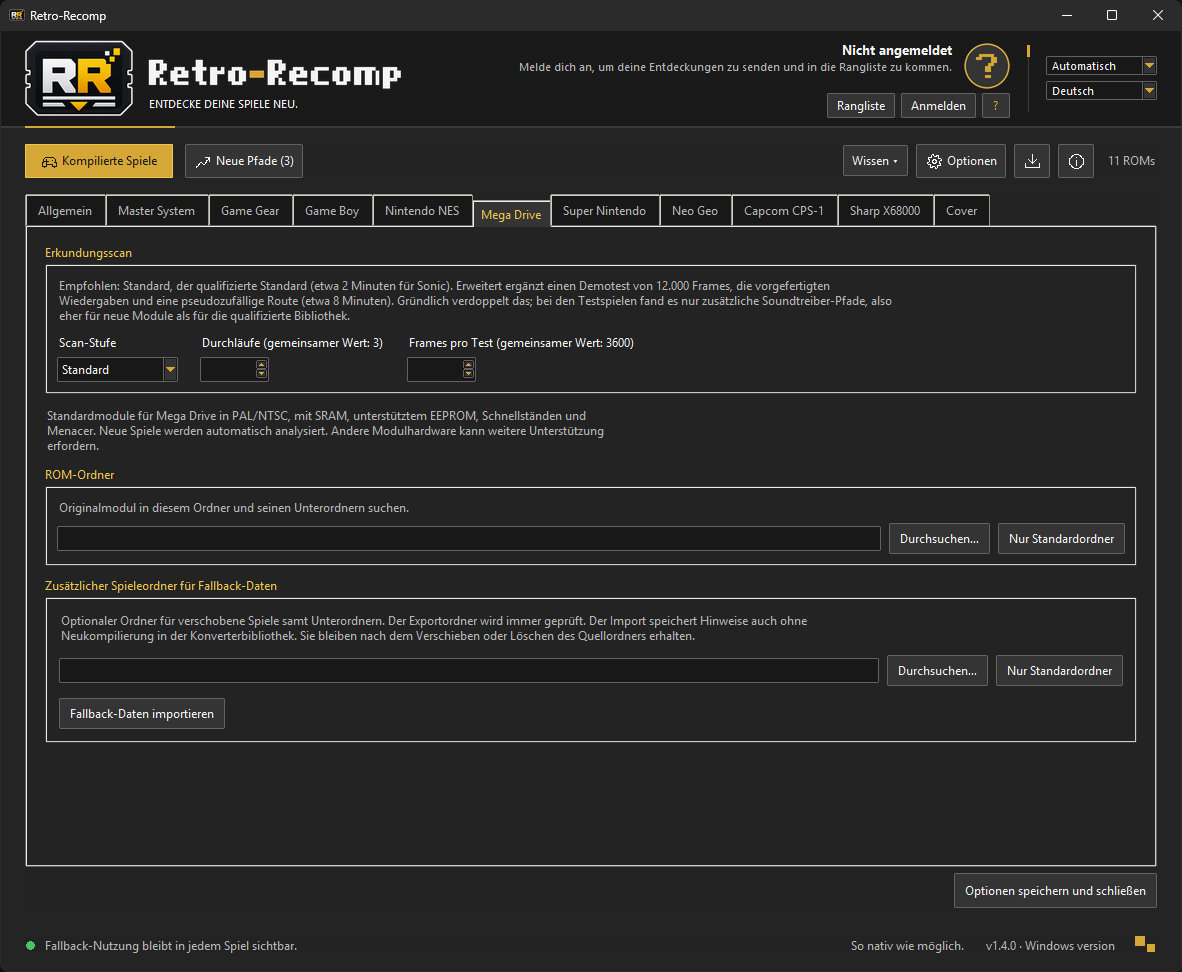
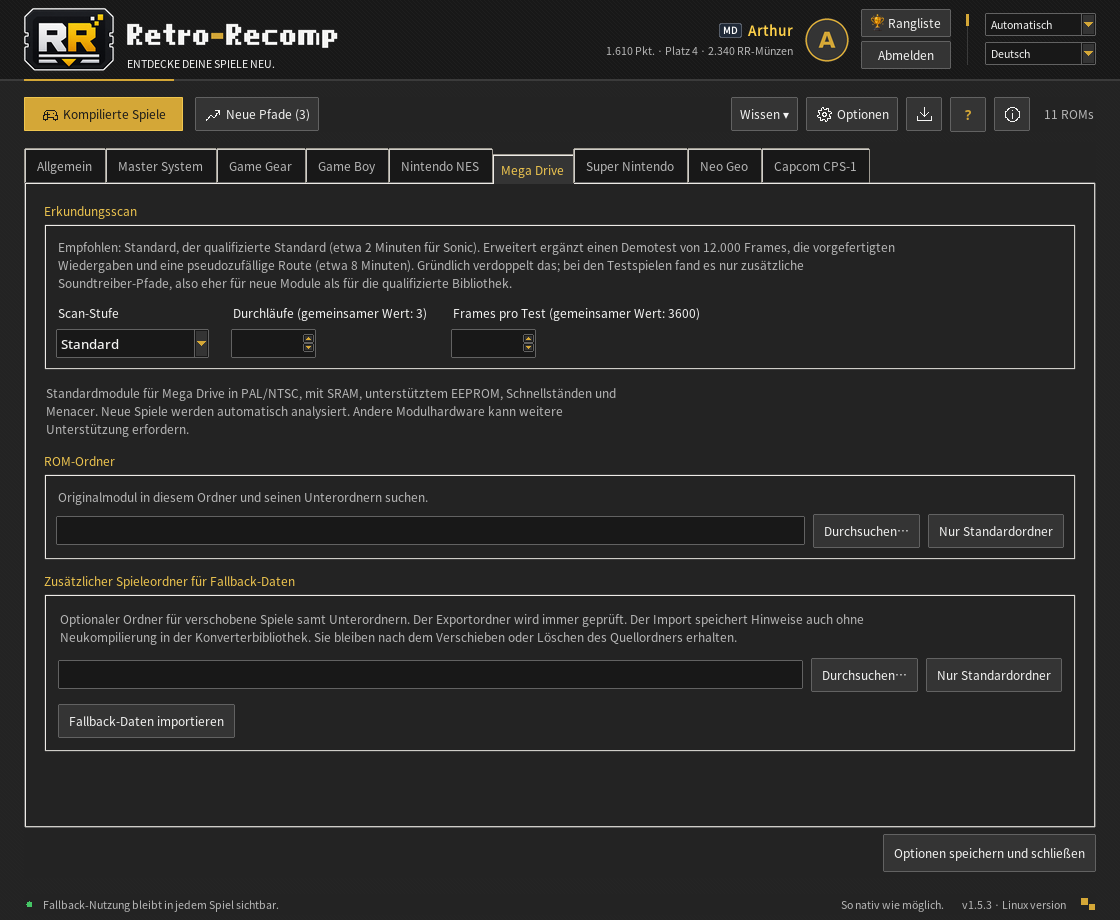
README captures retaken for 1.5.3: the credits' own part, the podium, scan-level stars, the header badge
The six gallery captures keep their language and scene, taken from this code
under Xvfb on Linux (the footer says "Linux version", the captions say so) with
demo data only: a sample account (its badge and coins in the header), the old
queue's eleven titles without ROM files, a demo collection, sample leaderboard
players. The credits scroll to "Made by Retro-Recomp"; the help page shows the
problem report button. Alt texts follow the scenes.

Changed region(s): [[0.0, 0.0, 1.0, 0.7913], [0.0312, 0.8826, 1.0, 1.0], [0.0312, 0.9435, 0.25, 1.0]]

diff --git a/README.md b/README.md
@@ -24,9 +24,9 @@
 </p>
 
 <p align="center">
-  <img src="MEDIAS/RetroRecomp_Queue_en.png" alt="RetroRecomp conversion queue with games from six consoles" width="860">
+  <img src="MEDIAS/RetroRecomp_Queue_en.png" alt="RetroRecomp conversion queue with games from six consoles, on Linux, with a sample account and its console badge in the header" width="860">
 </p>
-<p align="center"><sub><em>The conversion queue: drop games from several consoles and convert them together. Linux shares the same window.</em></sub></p>
+<p align="center"><sub><em>The conversion queue: drop games from several consoles and convert them together. Captured on Linux with a sample account; Windows shows the same window.</em></sub></p>
 
 RetroRecomp brings several recompilers together in one application. It turns
 your own game dumps into standalone Windows or Linux executables, with as much
@@ -101,28 +101,28 @@ native code as possible: no emulator to configure, no dedicated FPGA hardware.
 
 <table>
   <tr>
-    <td width="50%"><img src="MEDIAS/RetroRecomp_Collection_fr.png" alt="Compiled Games collection in French, with box art and a game summary"></td>
+    <td width="50%"><img src="MEDIAS/RetroRecomp_Collection_fr.png" alt="Compiled Games collection in French, with scan-level stars, box art and a game summary, demo collection"></td>
     <td width="50%"><img src="MEDIAS/RetroRecomp_Options_de.png" alt="Options in German, with the Mega Drive scan level and folders"></td>
   </tr>
   <tr>
-    <td align="center"><sub><em>Compiled Games, in French: favorites, covers, summaries and New paths.</em></sub></td>
+    <td align="center"><sub><em>Compiled Games, in French: favorites, scan-level stars, covers, summaries and New paths.</em></sub></td>
     <td align="center"><sub><em>Options, in German: one tab per console, scan levels and folders.</em></sub></td>
   </tr>
   <tr>
-    <td width="50%"><img src="MEDIAS/RetroRecomp_Credits_ja.png" alt="Animated credits in Japanese over the converter, with live tracker music"></td>
+    <td width="50%"><img src="MEDIAS/RetroRecomp_Credits_ja.png" alt="Animated credits in Japanese over the converter, showing what Retro-Recomp itself brings, with live tracker music"></td>
     <td width="50%" align="center"><img src="MEDIAS/RetroRecomp_Closing_it.gif" alt="Animated card in Italian before closing, offering to recompile games with new paths" width="400"></td>
   </tr>
   <tr>
-    <td align="center"><sub><em>Credits, in Japanese: a demoscene backdrop with live ChipLoom music.</em></sub></td>
+    <td align="center"><sub><em>Credits, in Japanese: what Retro-Recomp brings, over a demoscene backdrop with live ChipLoom music.</em></sub></td>
     <td align="center"><sub><em>Before closing, in Italian: recompile the games with new paths.</em></sub></td>
   </tr>
   <tr>
-    <td width="50%" align="center"><img src="MEDIAS/RetroRecomp_Help_fr.png" alt="Help page in French: how RetroRecomp works in five steps and the keys every game shares" width="400"></td>
-    <td width="50%" align="center"><img src="MEDIAS/RetroRecomp_Leaderboard_fr.png" alt="Leaderboard window in French with the trophy, a podium with three crowns and the class gems, sample data" width="420"></td>
+    <td width="50%" align="center"><img src="MEDIAS/RetroRecomp_Help_fr.png" alt="Help page in French: how RetroRecomp works in five steps, the keys every game shares and a button to report a problem" width="400"></td>
+    <td width="50%" align="center"><img src="MEDIAS/RetroRecomp_Leaderboard_fr.png" alt="Leaderboard window in French with the trophy, a podium with three crowns, the class gems and the badges players equip from the shop, sample data" width="420"></td>
   </tr>
   <tr>
     <td align="center"><sub><em>Help, in French: how it works in five steps.</em></sub></td>
-    <td align="center"><sub><em>The leaderboard, in French (sample players): podium, crowns and class gems.</em></sub></td>
+    <td align="center"><sub><em>The leaderboard, in French (sample players): podium, crowns, class gems and shop badges.</em></sub></td>
   </tr>
 </table>
 
